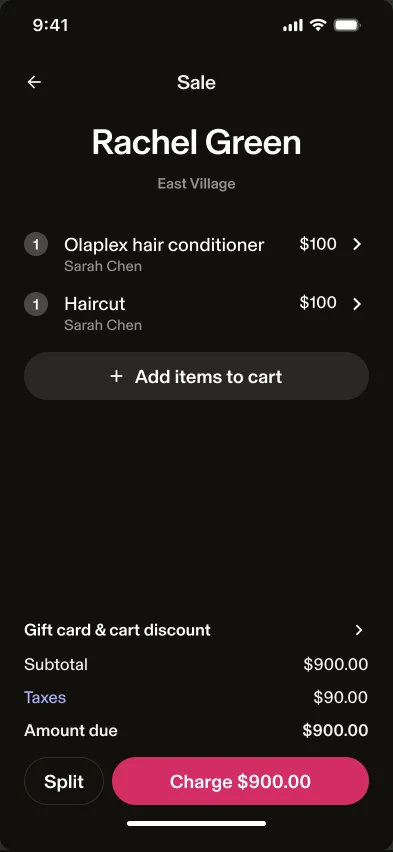
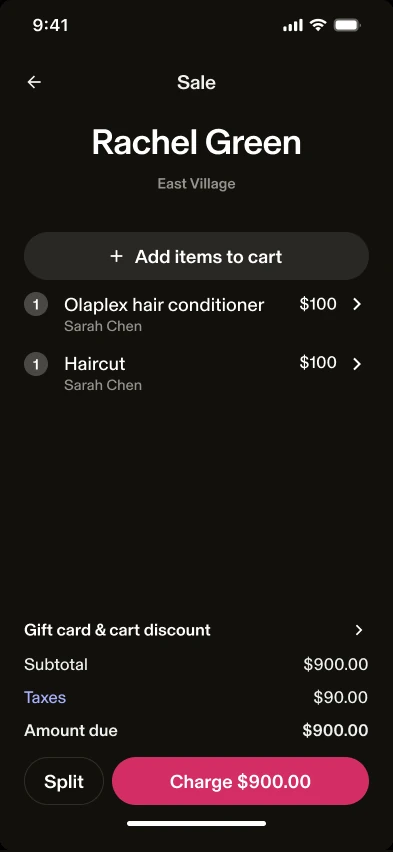
Multi Ticket: cart after keeps add items above the line items
Claude-Session: https://claude.ai/code/session_01VfeLV8XZ819E3sTS2rx56B

diff --git a/multi-ticket/index.html b/multi-ticket/index.html
@@ -521,9 +521,9 @@ dialog form button{background:none;border:0;color:#C9CFCE;font:400 12px var(--mo
   <div class="content"><div class="morph tall">
     <div class="frame" data-zoom role="button" tabindex="0" aria-label="Enlarge screen" style="--r:393/852">
       <div class="layer before"><img src="img/cart-before.webp" alt="Before: client card, a single provider, and line items with thumbnails" style="object-position:top left" loading="lazy" decoding="async"></div>
-      <div class="layer after"><img src="img/cart-after.webp" alt="After: client as the title, a provider on each line, and add items inline below" style="object-position:top left" loading="lazy" decoding="async"></div><i class="edge"></i>
+      <div class="layer after"><img src="img/cart-after.webp" alt="After: client as the title, add items to cart up top, and a provider on each line" style="object-position:top left" loading="lazy" decoding="async"></div><i class="edge"></i>
     </div>
-    <div class="bar"><p class="foot">One provider per sale became a provider per line, so items from every appointment sit in one list, with adding more right below.</p><div class="toggle"><button type="button" aria-pressed="true">Before</button><button type="button" aria-pressed="false">After</button><i></i></div></div>
+    <div class="bar"><p class="foot">One provider per sale became a provider per line, so items from every appointment sit in one list under a single way to add more.</p><div class="toggle"><button type="button" aria-pressed="true">Before</button><button type="button" aria-pressed="false">After</button><i></i></div></div>
   </div></div>
 </div></section>
 

diff --git a/multi-ticket/build.py b/multi-ticket/build.py
@@ -254,7 +254,7 @@ SLIDES = f'''
 
 {chapter(1, "Phase 1")}
 
-{morph("The cart", "cart-before", "cart-after", "393/852", "One provider per sale became a provider per line, so items from every appointment sit in one list, with adding more right below.", ["client card, a single provider, and line items with thumbnails", "client as the title, a provider on each line, and add items inline below"], tall=True)}
+{morph("The cart", "cart-before", "cart-after", "393/852", "One provider per sale became a provider per line, so items from every appointment sit in one list under a single way to add more.", ["client card, a single provider, and line items with thumbnails", "client as the title, add items to cart up top, and a provider on each line"], tall=True)}
 
 {morph("Tipping on one ticket", "tip-before", "tip-after", "393/852", "One tip for the whole ticket, split across providers by service value.", ["tip and signature on a single appointment", "one tip across every provider on the ticket"], tall=True)}
 
